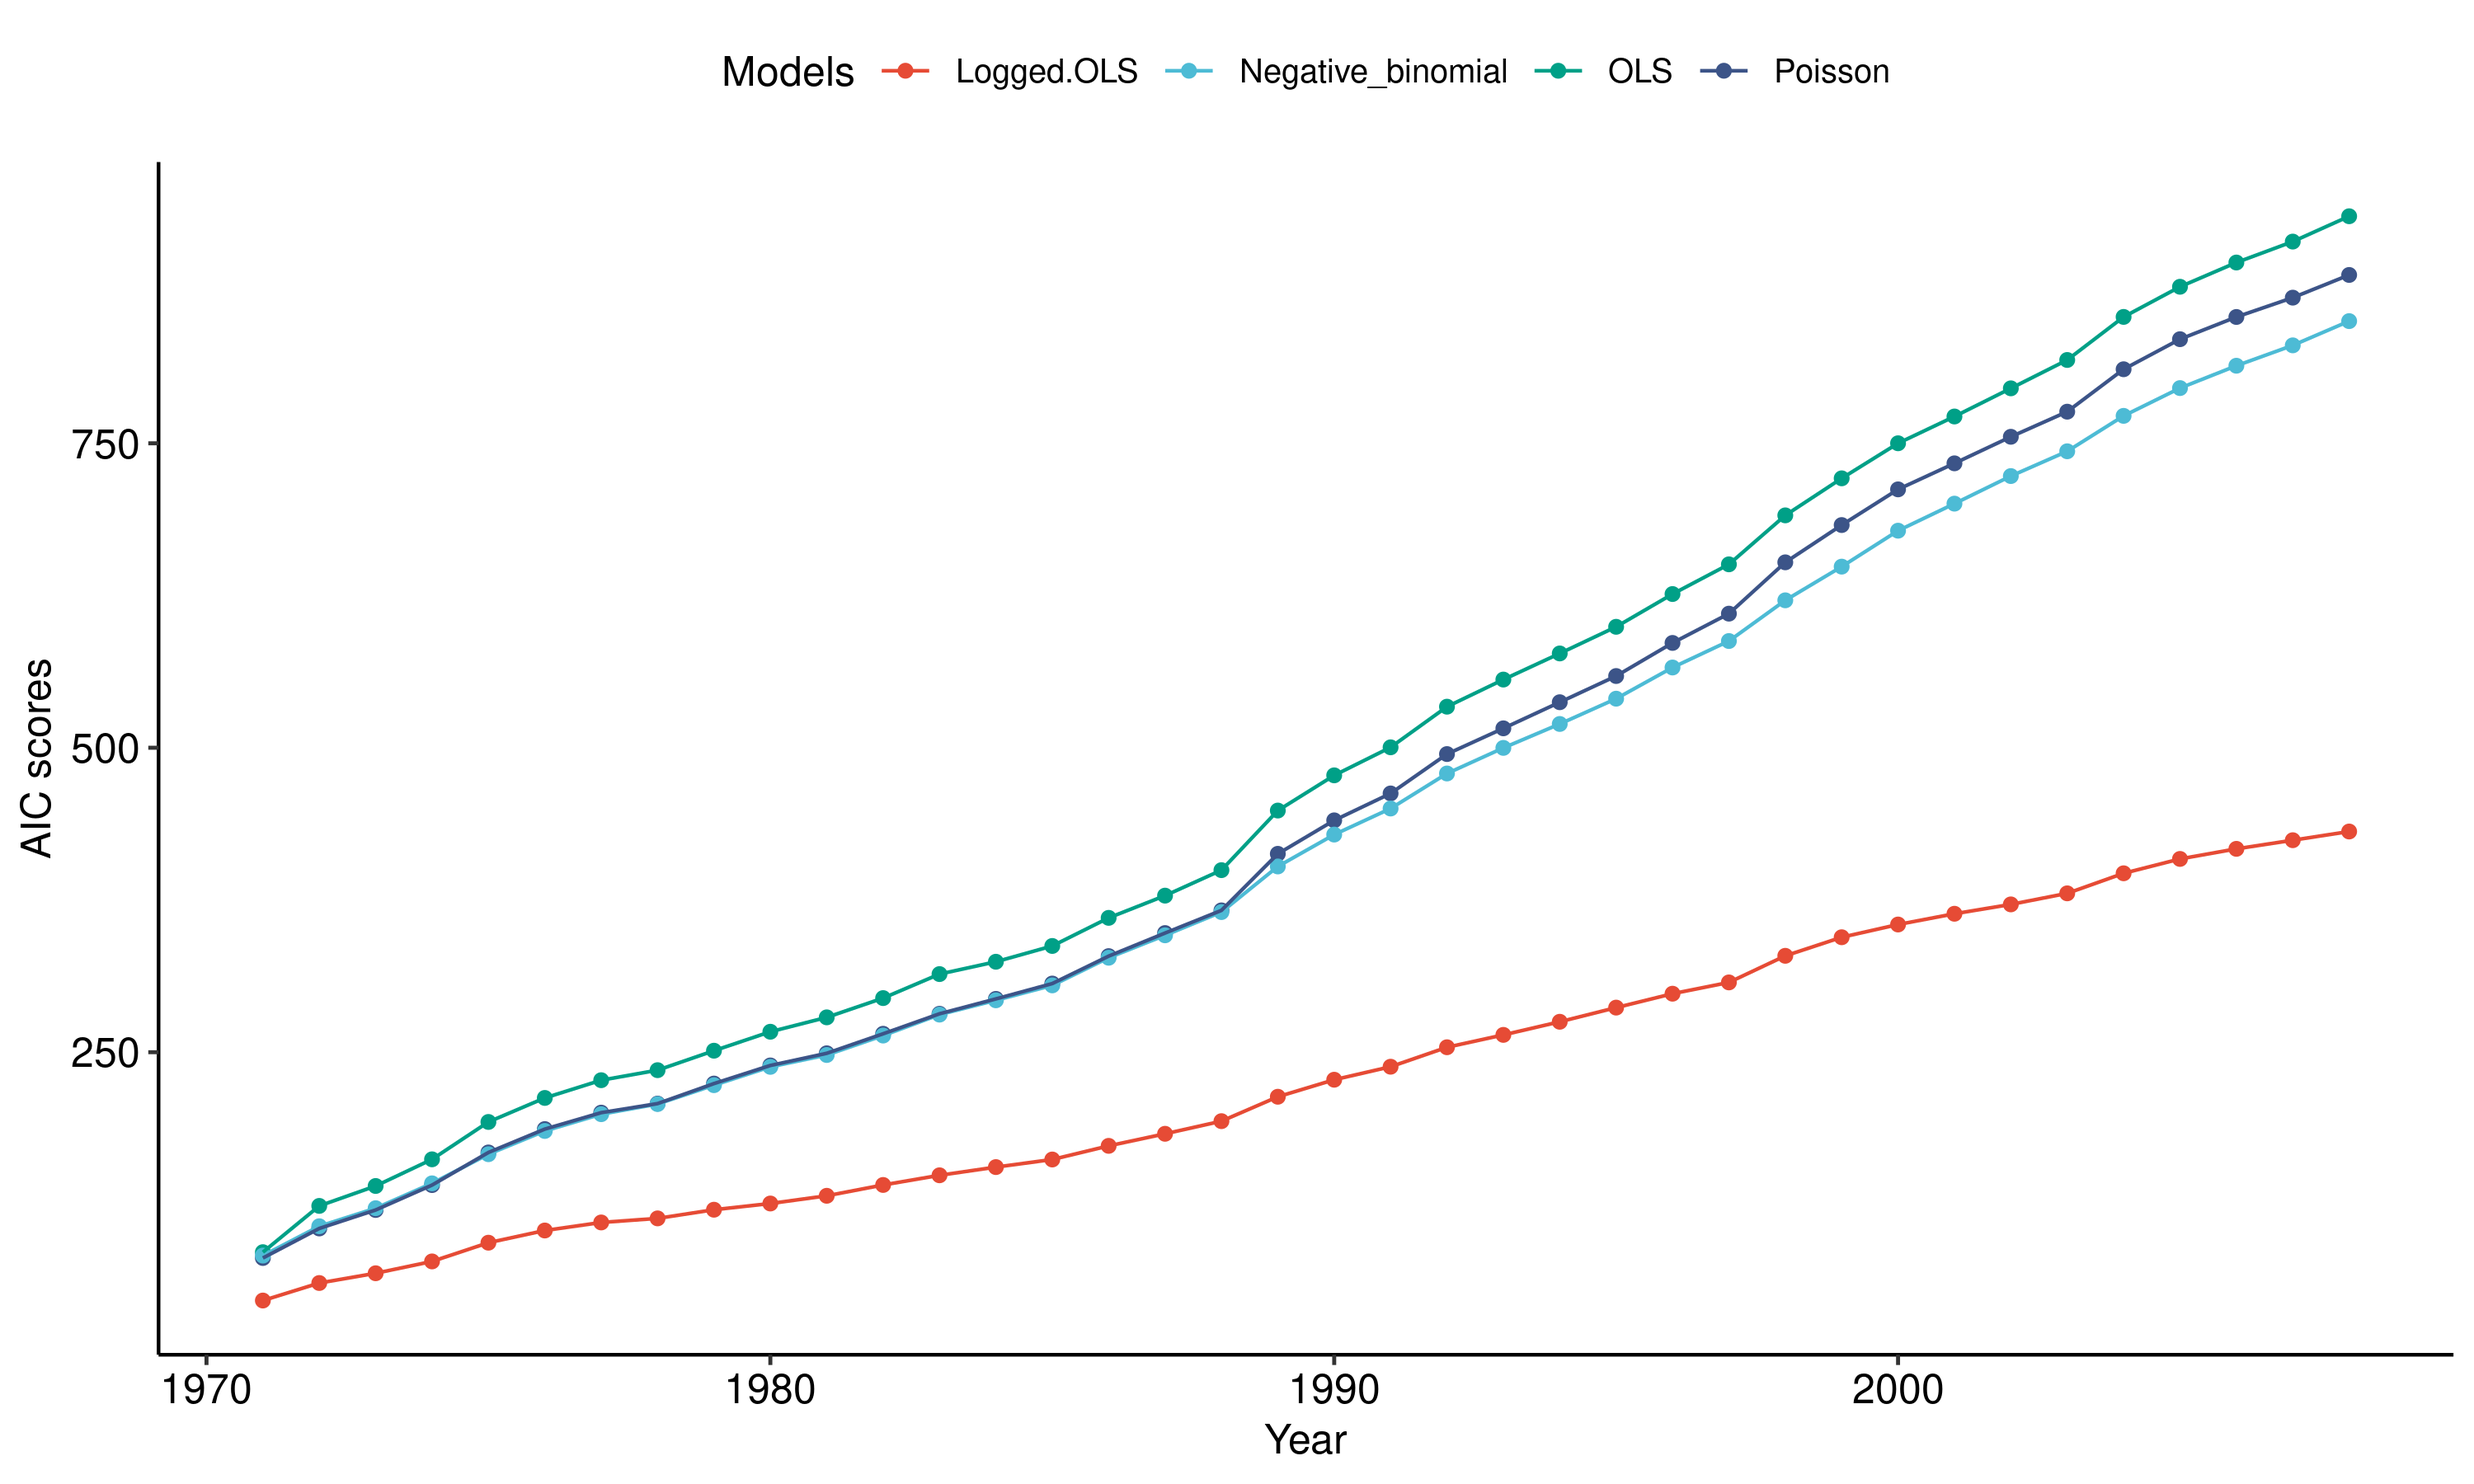
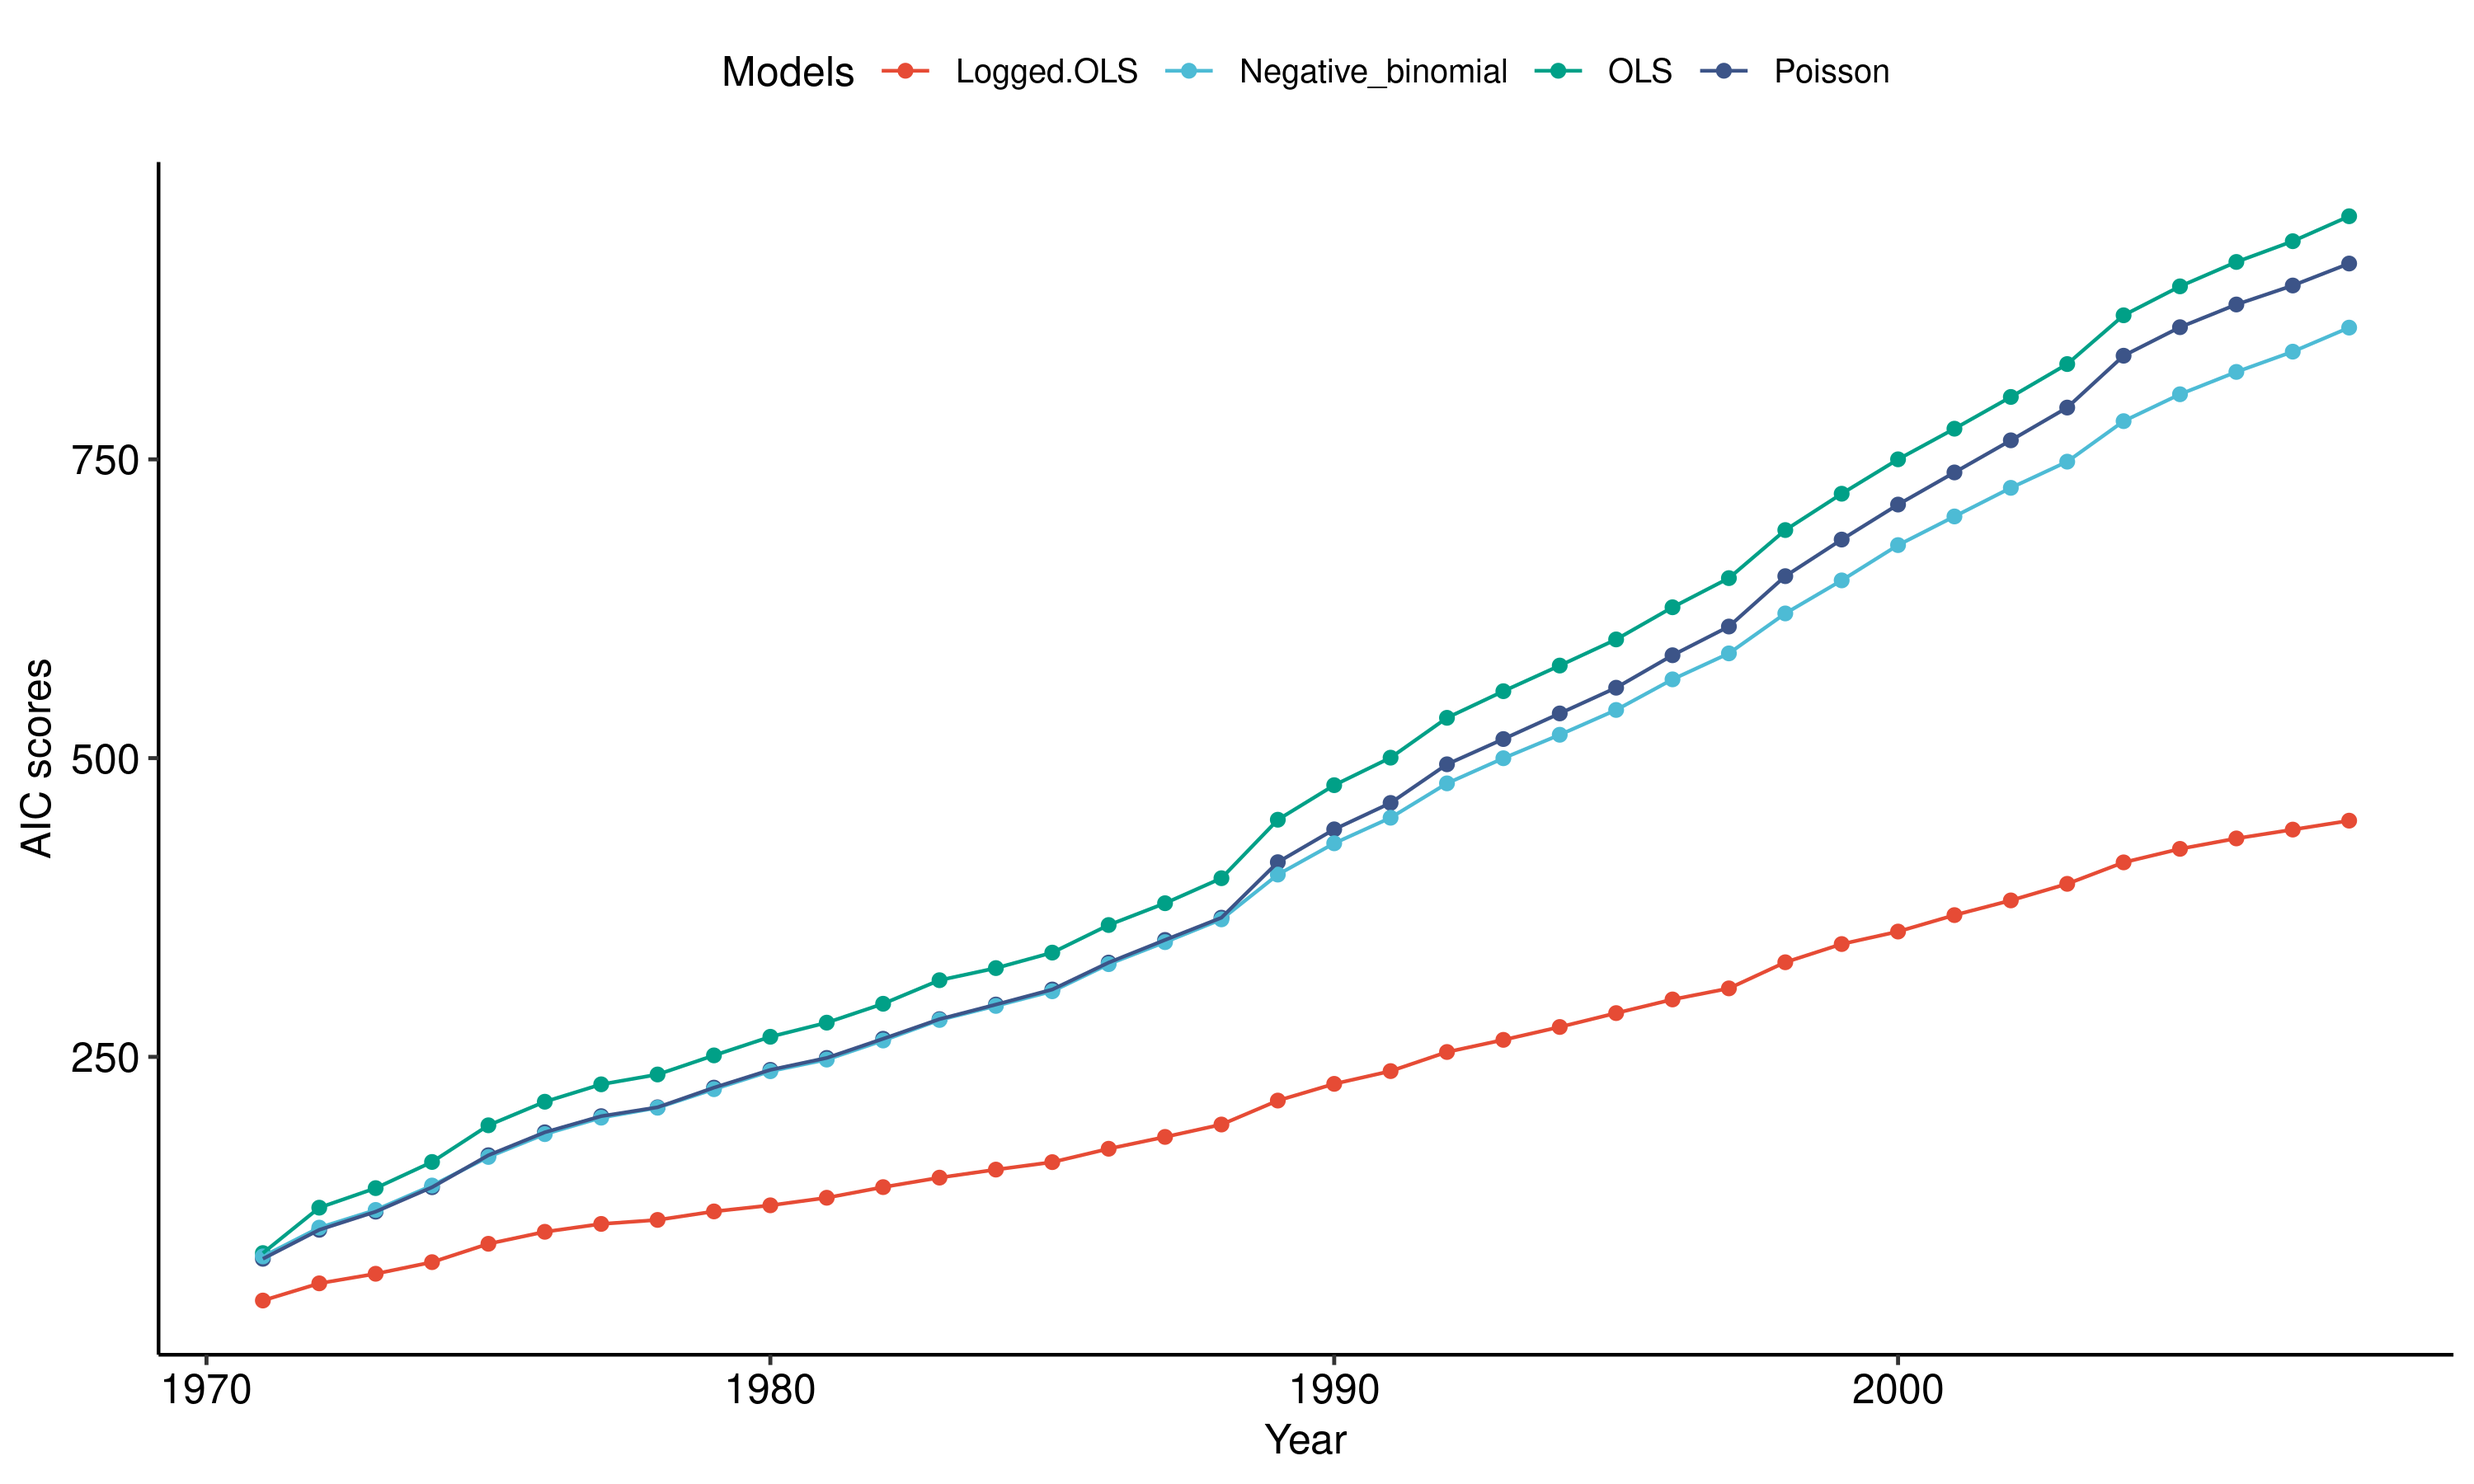
update

diff --git a/README.md b/README.md
@@ -162,7 +162,7 @@ year[i] <- 1970 + i
 
 **Figure 6. Model performance comparisons*
 
-**Update: Limited the data for the bootstrapping analysis up to year 1990 to avoid too much extrapolation. This decision applies to all the model outcomes presented below.**
+**Update: Limited the data for the bootstrapping analysis up to year 1988 to avoid too much extrapolation. The breakpoint was determined by the `strucchange::breakpoints()` function`. This decision applies to all the model outcomes presented below.**
 
 From this point on, I used the OLS with logged DV for the analysis and limited the data to CBOs. We saw the slope change. Given the research question, it is important to know to what extent the federal funding contributed to the slope change as opposed to other factors. To do so, I examined how the coefficients of federal funding changed as we extended the data from 1970 to 1990. For instance, the 1970 data is the subset of the original data which includes observations up to the year 1970. I created a point plot using a for loop. The point plot in Figure 7 shows that the coefficients of the federal funding were positive up to the cutpoint. Then they became almost zero after the cutpoint. An opposite trend was found from the changes in the coefficients of population growth. They were either negative or zero before the cutpoint. Then they became positive in the 1980s and then again became almost zero or negative afterward.
 
